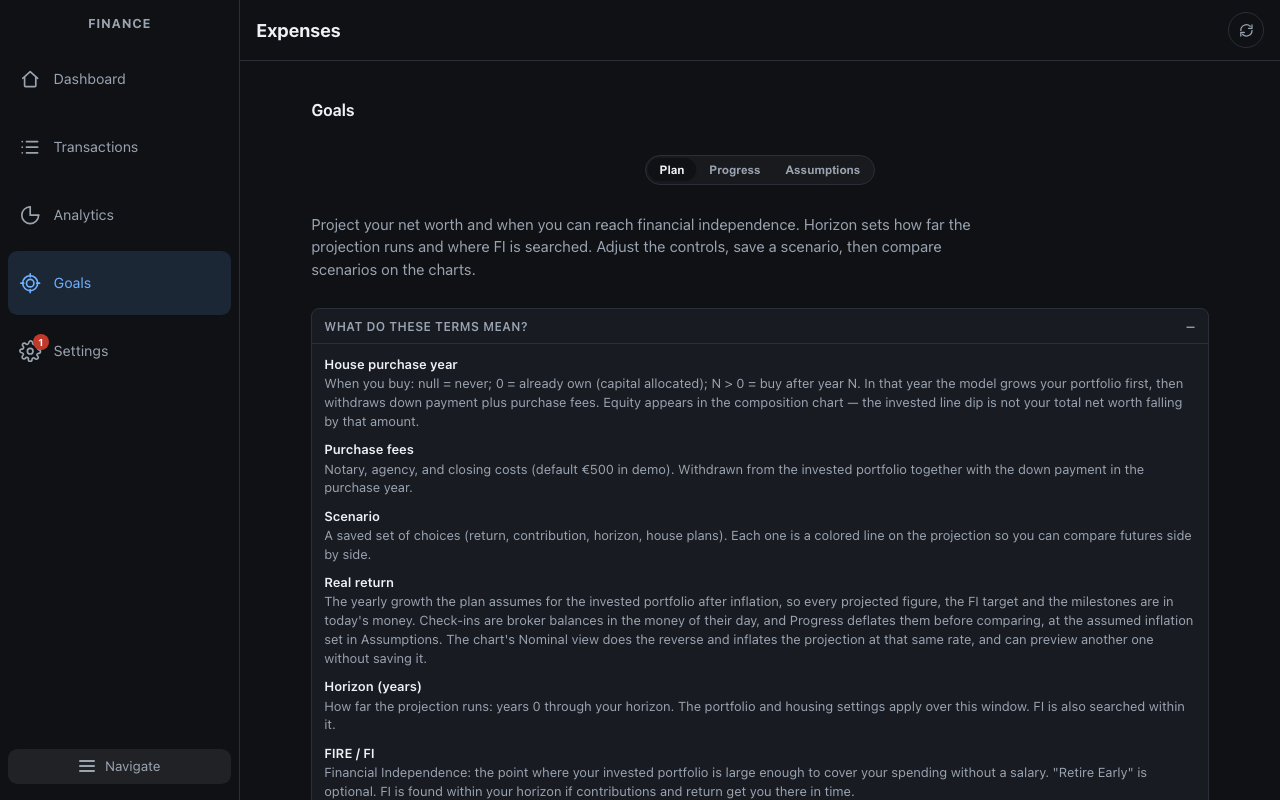
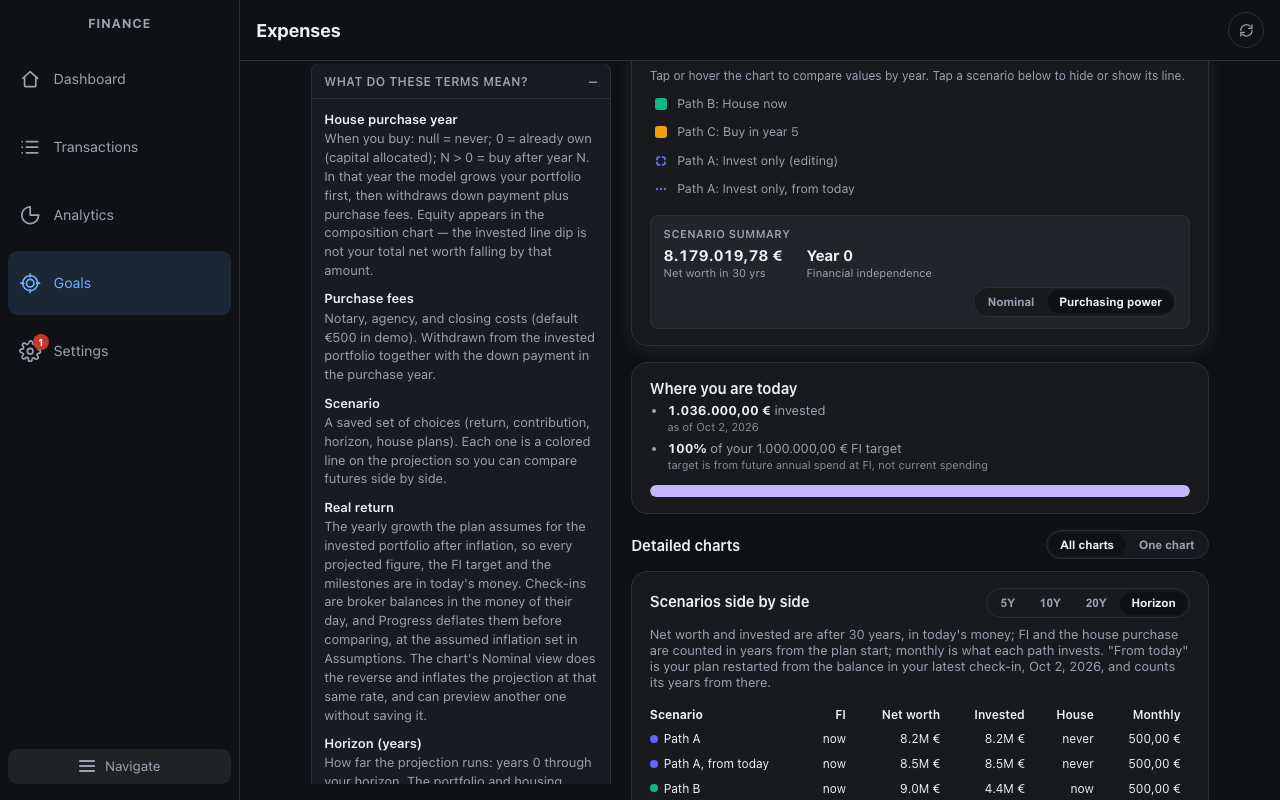
Retake the Goals desktop gallery with the chart first
Plan's desktop order changed, so the overview, explainer, charts and full-page captures showed the old one.

Changed region(s): [[0.25, 0.0938, 0.9375, 1.0], [0.7812, 0.375, 0.9062, 0.4062], [0.6562, 0.0938, 0.6875, 0.125]]

diff --git a/docs/SCREENSHOT-GALLERY.md b/docs/SCREENSHOT-GALLERY.md
@@ -90,7 +90,7 @@ Cash recon shows **Carryover**, **This month**, and **Total gap** columns (deskt
 
 ## Goals
 
-Multi-scenario wealth planner in three views. Plan: three saved paths plus an unsaved draft, FI progress, FIRE drawdown, rent-vs-buy net worth, and actual saving vs plan. Progress: dated check-ins with on/off-track status, net worth over time, and actual vs plan. Assumptions: the milestone ladder, the wealth accounts, the cash reserve and the assumed inflation. Desktop secondary charts default to a full-width stack with an optional single-chart tab mode; mobile uses a scrollable chart picker. On a phone one row under the header switches between Chart, Adjust, Progress and Assumptions (Plan is Chart and Adjust there), and the mobile overview is Chart, which opens on the projection chart with the glossary below the charts.
+Multi-scenario wealth planner in three views. Plan: three saved paths plus an unsaved draft, FI progress, FIRE drawdown, rent-vs-buy net worth, and actual saving vs plan. Progress: dated check-ins with on/off-track status, net worth over time, and actual vs plan. Assumptions: the milestone ladder, the wealth accounts, the cash reserve and the assumed inflation. On desktop the projection chart leads the right-hand column and the intro and glossary end the sidebar, under the controls. Desktop secondary charts default to a full-width stack with an optional single-chart tab mode; mobile uses a scrollable chart picker. On a phone one row under the header switches between Chart, Adjust, Progress and Assumptions (Plan is Chart and Adjust there), and the mobile overview is Chart, which opens on the projection chart with the glossary below the charts.
 
 | Desktop overview | Mobile overview |
 | --- | --- |
